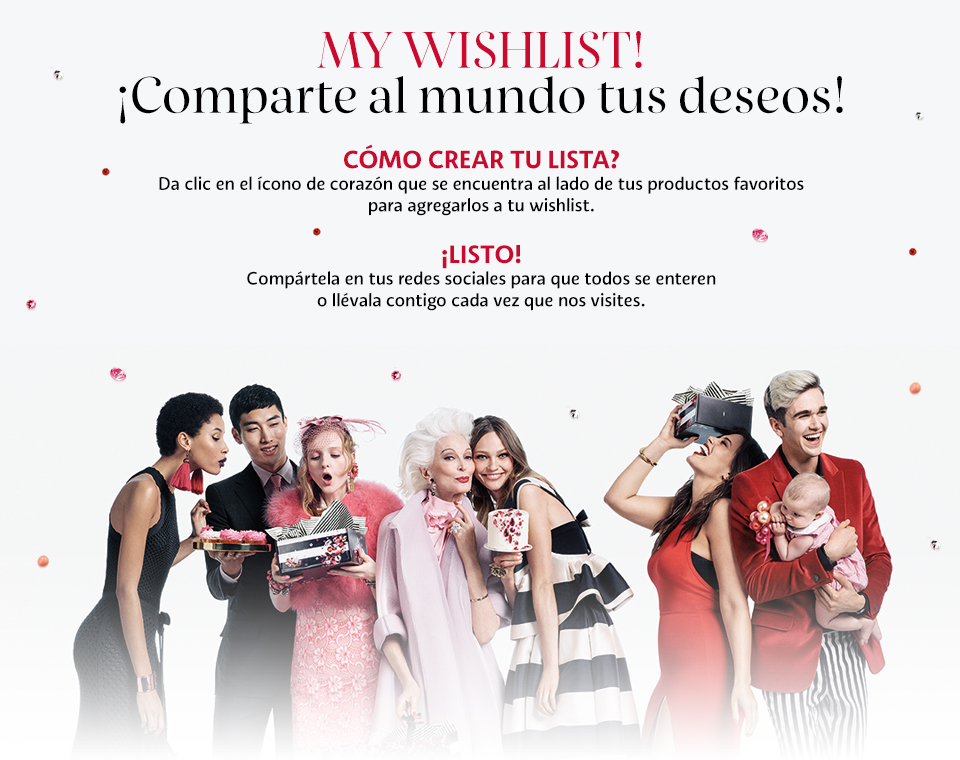
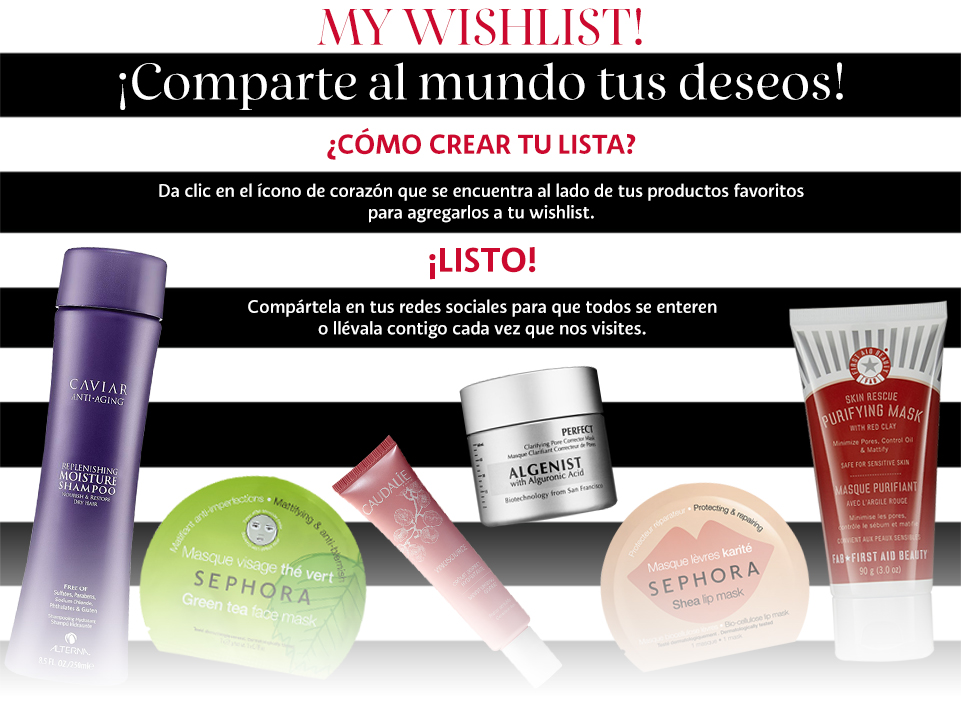
cambios wishlist de usuario

diff --git a/app/assets/stylesheets/application.css.scss b/app/assets/stylesheets/application.css.scss
@@ -121,7 +121,6 @@ li:hover{
   &.holiday{
     width: 100%;
     height: 204px;
-    background-image: image-url("holiday/wishlist/04.png") !important;
   }
   h3{
     padding: 0;

diff --git a/app/controllers/usuarios_controller.rb b/app/controllers/usuarios_controller.rb
@@ -35,7 +35,7 @@ class UsuariosController < ApplicationController
   end
 
   def wishlist
-    @wishlist = Producto.where(:upc => ['3378872072713','3548752030748','818015012921','811999021200','689304184595','94800348776','607710043855','607845064329','713757273701','811999021224','3548752061636','3378872067146','3378872067207','94800348806','696859115660'])
+    @wishlist = Producto.where(:upc => ["815517020584", "604214919006", "607710042148", "5045456747685", "687795470012", "3378872096016", "607845021124", "818015011832", "3349668508587", "851610005301"])
     @usuario = current_usuario.productos rescue []
     @bandera = (current_usuario) ? true : false
   end
